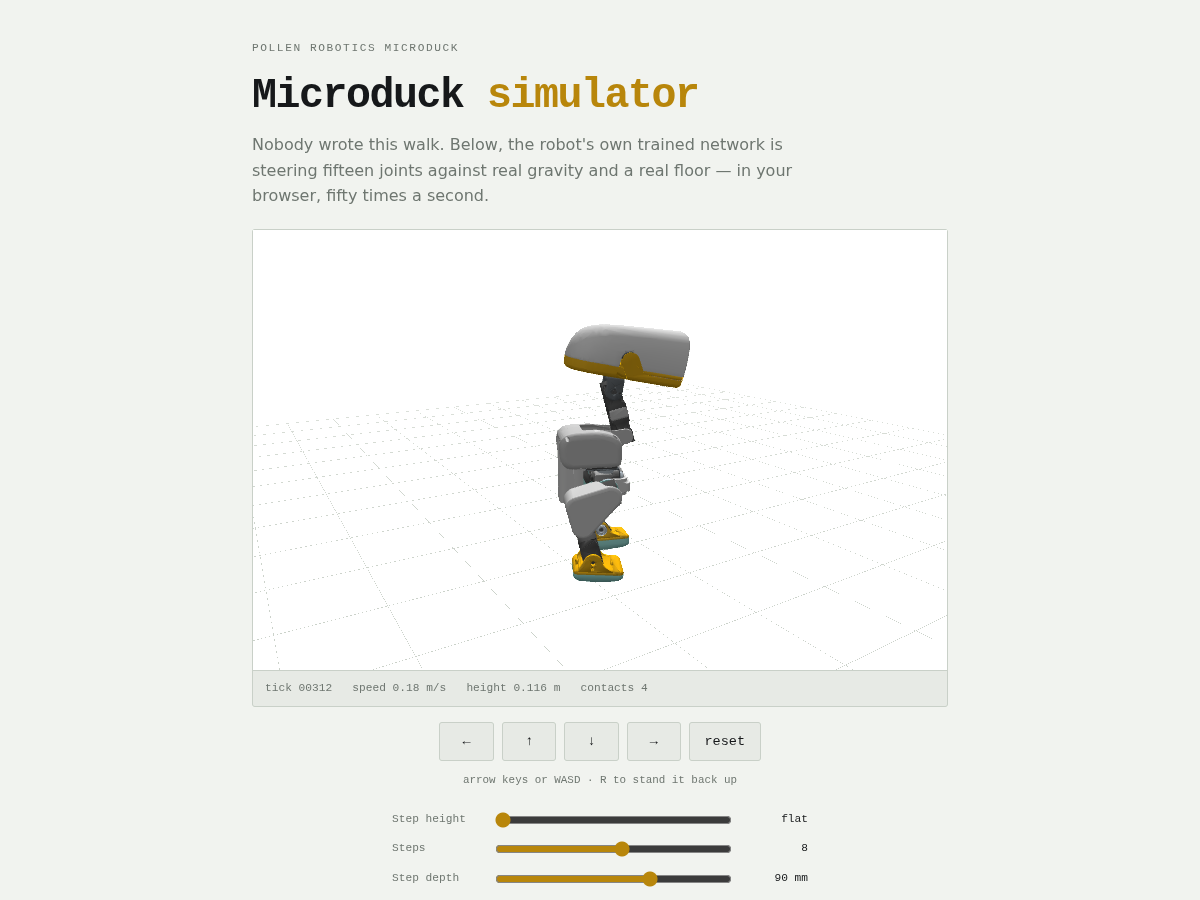
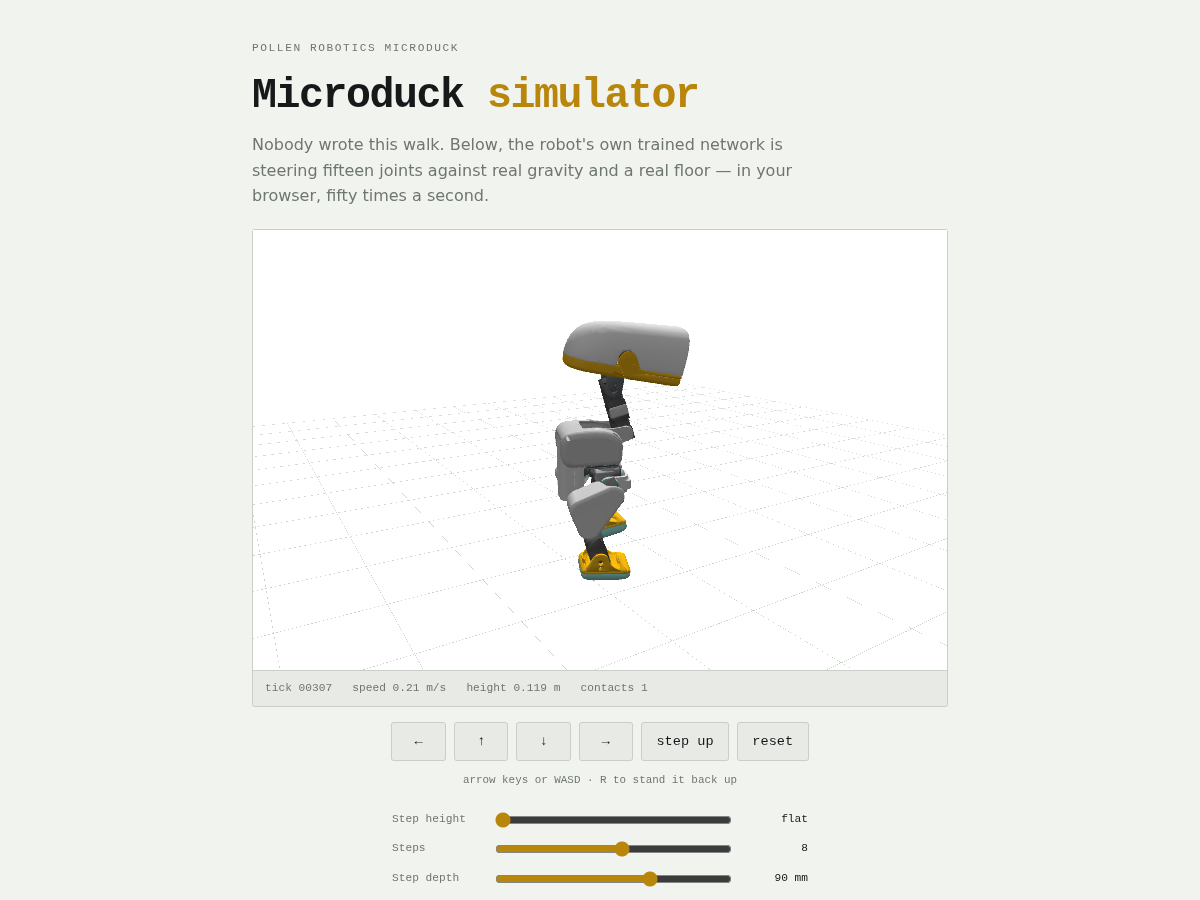
The step-up intent: 26 mm, found by search, verified, and on the page
The head-as-third-limb idea, tuned. A search over the twenty parameters of the
move — random restarts, each hill-climbed, scored by the tallest step it clears
— ran 140 evaluations in ten minutes and found 26 mm.

  walking policy alone           2 mm
  head plant, hand-tuned        10 mm
  head plant, searched          26 mm

Re-run independently rather than trusted from the search log: 18, 22 and 26 mm
each succeed 3/3, and 30 mm fails 3/3. On a 250 mm duck, 26 mm is about a tenth
of body height — proportionally what an 18 cm stair riser is to an adult.

What the search chose is worth reading. It set the approach speed to 0.12,
below the threshold where the walking policy engages at all, so the duck is
standing rather than walking into the step. It over-drives the offset (blend
1.25). And it ends with the neck pulling UP hard (-0.4) — the head is not just
propping, it is pulling the body over the edge, which is the half of the
long-jumper analogy I had not built in deliberately.

A "step up" button on the page runs it. The intent stays an offset on the
policy's output, never a replacement, for the reason already learned the hard
way: with kp 0.55 the servos cannot hold a pose, so balance is something the
policy does every 20 ms rather than something a pose encodes.

Both sites redeployed and verified: 50.0 Hz, no console errors.

Claude-Session: https://claude.ai/code/session_01Ri6jitwY3FxeeL2v1Ez3v5

diff --git a/site/sim.js b/site/sim.js
@@ -9,6 +9,7 @@ import * as ort from './vendor/ort/ort.wasm.min.mjs';
 import { makeLoop } from './duckloop.mjs';
 import { createRenderer } from './render.js';
 import { findStairJoints, layoutStairs, clearStairs, STAIR_COUNT } from './stairs.js';
+import { buildTrack, poseAt } from './intent.mjs';
 
 // Absolute, not relative: onnxruntime resolves wasmPaths against its OWN module
 // URL, so './vendor/ort/' became /vendor/ort/vendor/ort/... and every backend
@@ -27,6 +28,8 @@ let model, data, mj, session, inputName, C, HOME, buildObs, gaitTargets, project
 let lastAction = new Array(14).fill(0), previous = null, ticks = 0, GYRO = 0;
 let STAIRS = null, DUCK = null, stairCfg = { count: 8, rise: 0, run: 0.09, start: 0.45 };
 let manual = null;   // 14 hand-set targets, or null while the policy drives
+let intent = null;   // { params, track, t0 } while the step-up move is playing
+let stepupParams = null;
 
 function reset() {
   mj.mj_resetData(model, data);
@@ -56,6 +59,21 @@ async function tick() {
 
   if (manual) {
     for (let k = 0; k < 14; k++) data.ctrl[k] = manual[k];
+  } else if (intent) {
+    // The intent is an OFFSET on the policy, never a replacement. Replacing it
+    // collapses the duck: with kp 0.55 the servos cannot hold a pose, so
+    // balance is something the policy does continuously, not something a pose
+    // encodes. Measured, an open-loop version fell over on a flat floor.
+    const cmd = command({ vx: intent.params.approach });
+    const obs = buildObs(gyro, projectedGravity(q), jpos, jvel, lastAction, cmd);
+    const out = await session.run({ [inputName]: new ort.Tensor('float32', obs, [1, 61]) });
+    lastAction = Array.from(out[session.outputNames[0]].data);
+    const elapsed = (ticks - intent.t0) / C.tickHz;
+    const offset = poseAt(intent.track, elapsed, HOME);
+    for (let k = 0; k < 14; k++) {
+      data.ctrl[k] = HOME[k] + lastAction[k] + (offset[k] - HOME[k]) * intent.params.blend;
+    }
+    if (elapsed > intent.track[intent.track.length - 1].t + 0.6) intent = null;
   } else {
     const obs = buildObs(gyro, projectedGravity(q), jpos, jvel, lastAction, command(cmdState));
     const out = await session.run({ [inputName]: new ort.Tensor('float32', obs, [1, 61]) });
@@ -187,6 +205,11 @@ modeEl.addEventListener('change', () => {
     previous = null;
   }
 });
+document.getElementById('stepup').addEventListener('click', () => {
+  if (!stepupParams) return;
+  manual = null; modeEl.value = 'policy';
+  intent = { params: stepupParams, track: buildTrack(stepupParams, HOME), t0: ticks };
+});
 document.getElementById('copyPose').addEventListener('click', async () => {
   const names = C.jointNames.filter(n => n !== 'mouth');
   const pose = Object.fromEntries(names.map((n, k) => [n, +(manual ? manual[k] : data.ctrl[k]).toFixed(4)]));
@@ -229,6 +252,9 @@ document.getElementById('copyPose').addEventListener('click', async () => {
     renderer = await createRenderer(cv, './duck-visual.bin');
     console.log('renderer:', renderer.draws, 'parts,', renderer.triangles, 'triangles');
 
+    try {
+      stepupParams = (await (await fetch('./intent-stepup.json')).json()).params;
+    } catch { /* the button simply does nothing without it */ }
     buildServos();
     readStairs();
     reset();

diff --git a/site/index.html b/site/index.html
@@ -112,6 +112,7 @@
     <button data-key="ArrowUp" aria-label="walk forward">&uarr;</button>
     <button data-key="ArrowDown" aria-label="walk backward">&darr;</button>
     <button data-key="ArrowRight" aria-label="turn right">&rarr;</button>
+    <button id="stepup" aria-label="run the step-up intent">step up</button>
     <button id="reset" aria-label="stand it back up">reset</button>
   </div>
   <p class="hint">arrow keys or WASD &middot; R to stand it back up</p>
@@ -132,7 +133,7 @@
       <input type="range" id="run" min="30" max="120" step="5" value="90">
       <output id="runOut">90 mm</output>
     </div>
-    <p class="ctl-note" id="ctlNote">It walks up 2 mm steps. At 3 mm it falls over.</p>
+    <p class="ctl-note" id="ctlNote">Walking alone: 2 mm. With the step-up intent: 26 mm.</p>
   </div>
 
   <details class="servos">
